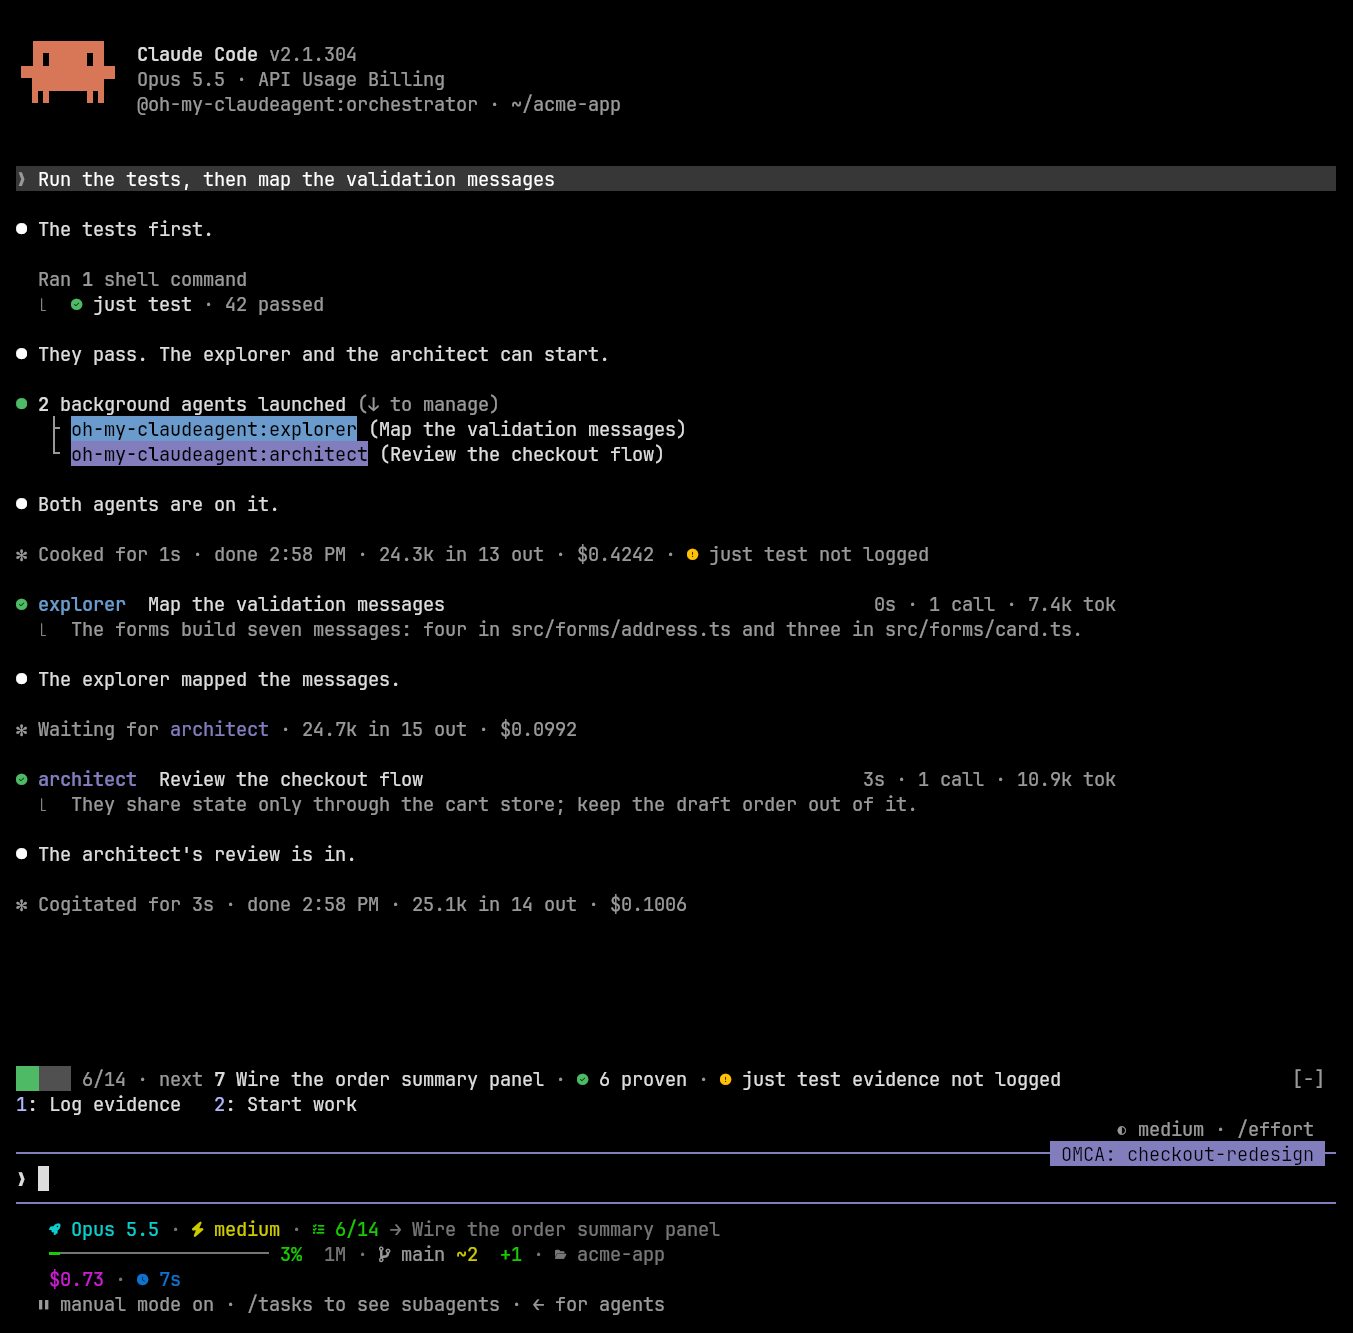
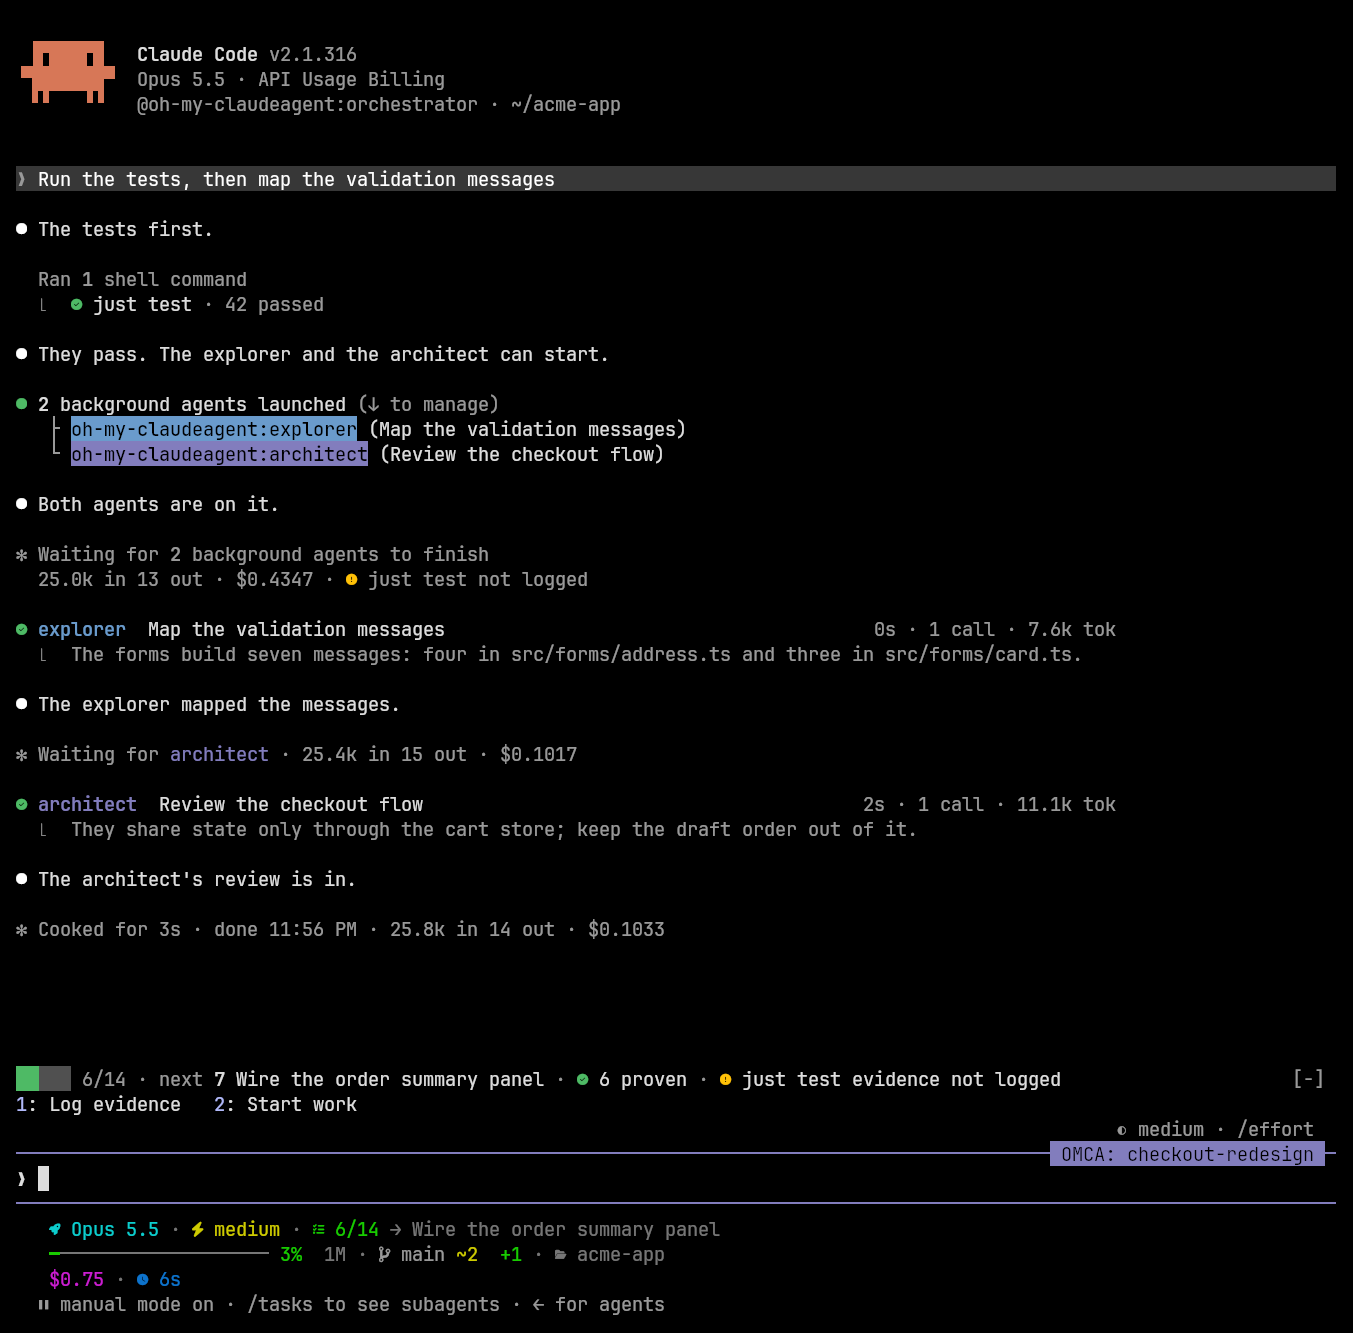
docs(screens): recapture the README images on 2.1.316
The hero now shows the detail column its alt text describes, which needs
214 columns since the dock cap, and every other image moves from 2.1.304
to the current pane and status line.

Two alt texts follow the new captures: the mascots lanes run a Bash
command rather than a sleep, and the Doctor's passing line is cut after
the options.

diff --git a/README.md b/README.md
@@ -96,7 +96,7 @@ earlier ones shrink to a line, and in a short pane each lane keeps to two rows.
 When the pane has room, each lane gets four rows of its own. The agent page opens a subagent's brief, tool calls, reply and cost, and toasts report
 failed verifications and a completed plan.
 
-<img src=".github/assets/mascots.png" width="680" alt="The Agents tab with three agents running at once, each lane led by its pixel mascot: a green executor in a yellow hard hat with a hammer, a blue explorer in a safari hat with a spyglass, and a purple architect with a lit bulb beside its head. Beside each mascot, four rows give the agent's name with its running time, its task, its running Bash sleep with one call, and its model, effort and tokens, with a blank row between agents.">
+<img src=".github/assets/mascots.png" width="680" alt="The Agents tab with three agents running at once, each lane led by its pixel mascot: a green executor in a yellow hard hat with a hammer, a blue explorer in a safari hat with a spyglass, and a purple architect with a lit bulb beside its head. Beside each mascot, four rows give the agent's name with its running time, its task, its running Bash command with one call, and its model, effort and tokens, with a blank row between agents.">
 
 The guard holds a destructive shell command for your review and shows what it would touch.
 
@@ -106,7 +106,7 @@ The guard holds a destructive shell command for your review and shows what it wo
 change how OMCA runs. A check with a known fix offers a key that fills the prompt with it, and
 the passing checks fold into one line that `o` opens.
 
-<img src=".github/assets/doctor.png" width="680" alt="The Doctor page, named after the four tabs in the tab bar, counts 1 warning, 1 info row and 11 passing checks. The warning says maxEffortLevel high holds the architect below the xhigh it declares, the info row offers a: Use /advisor fable, and one line beside o: Show passing folds the passing checks, naming OMCA, Claude Code, bun, the omca server, ast-grep, the options, the agent models and the mod policy before it is cut.">
+<img src=".github/assets/doctor.png" width="680" alt="The Doctor page, named after the four tabs in the tab bar, counts 1 warning, 1 info row and 11 passing checks. The warning says maxEffortLevel high holds the architect below the xhigh it declares, the info row offers a: Use /advisor fable, and one line beside o: Show passing folds the passing checks, naming OMCA, Claude Code, bun, the omca server, ast-grep and the options before it is cut.">
 
 The status line shows the session (model, agent and the plan's next task), the workspace
 (context window and git state) and usage (duration, usage limits, and cost for accounts billed
